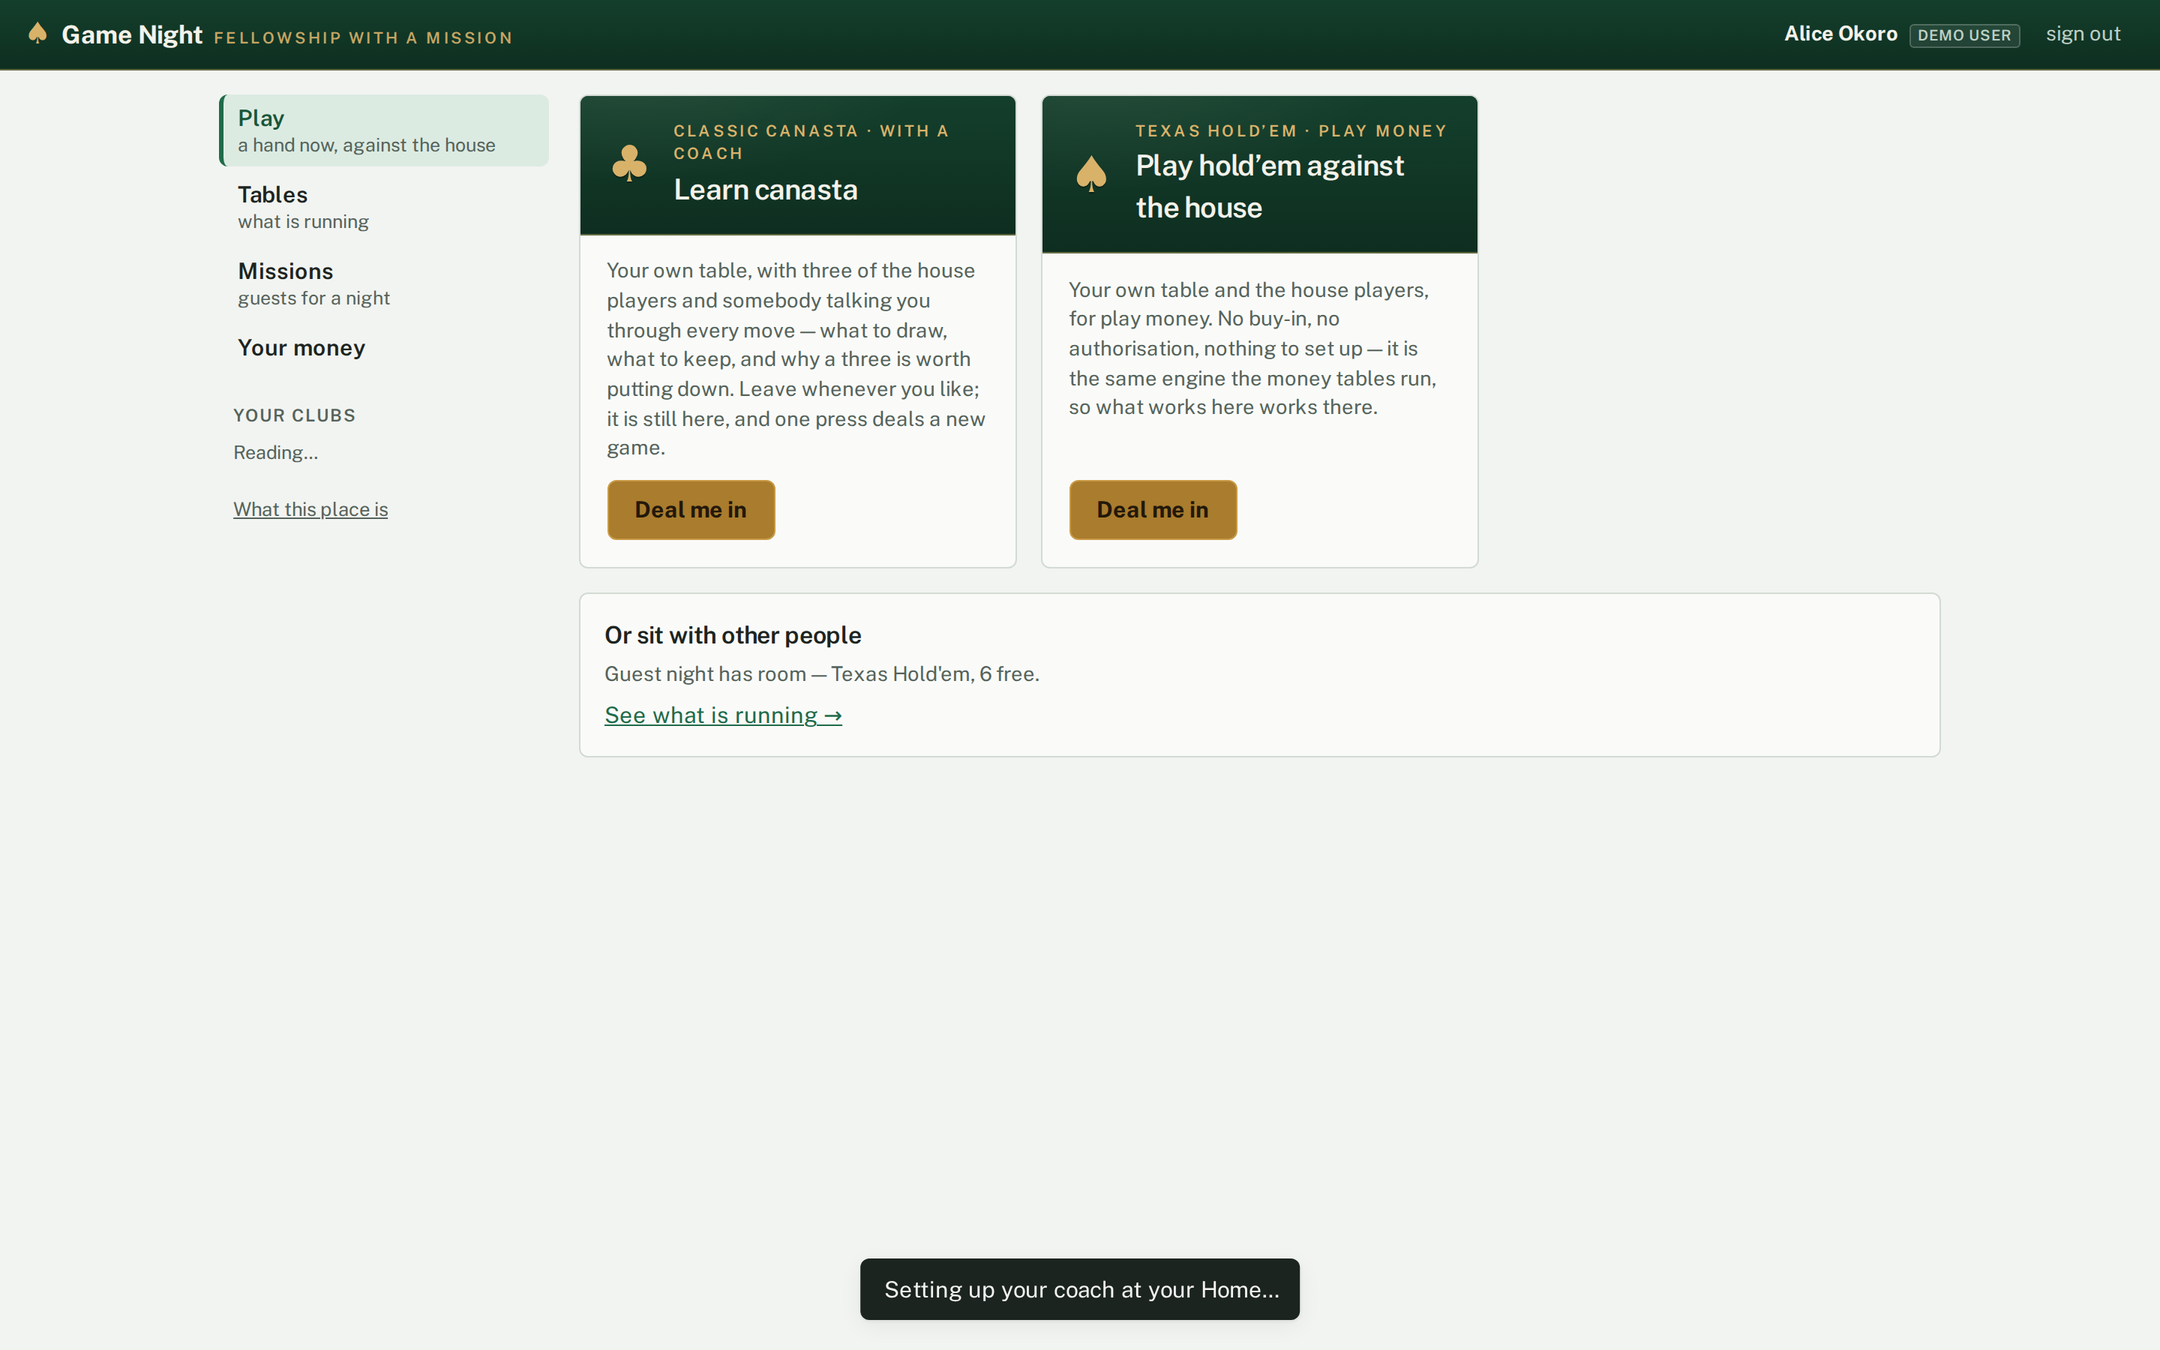
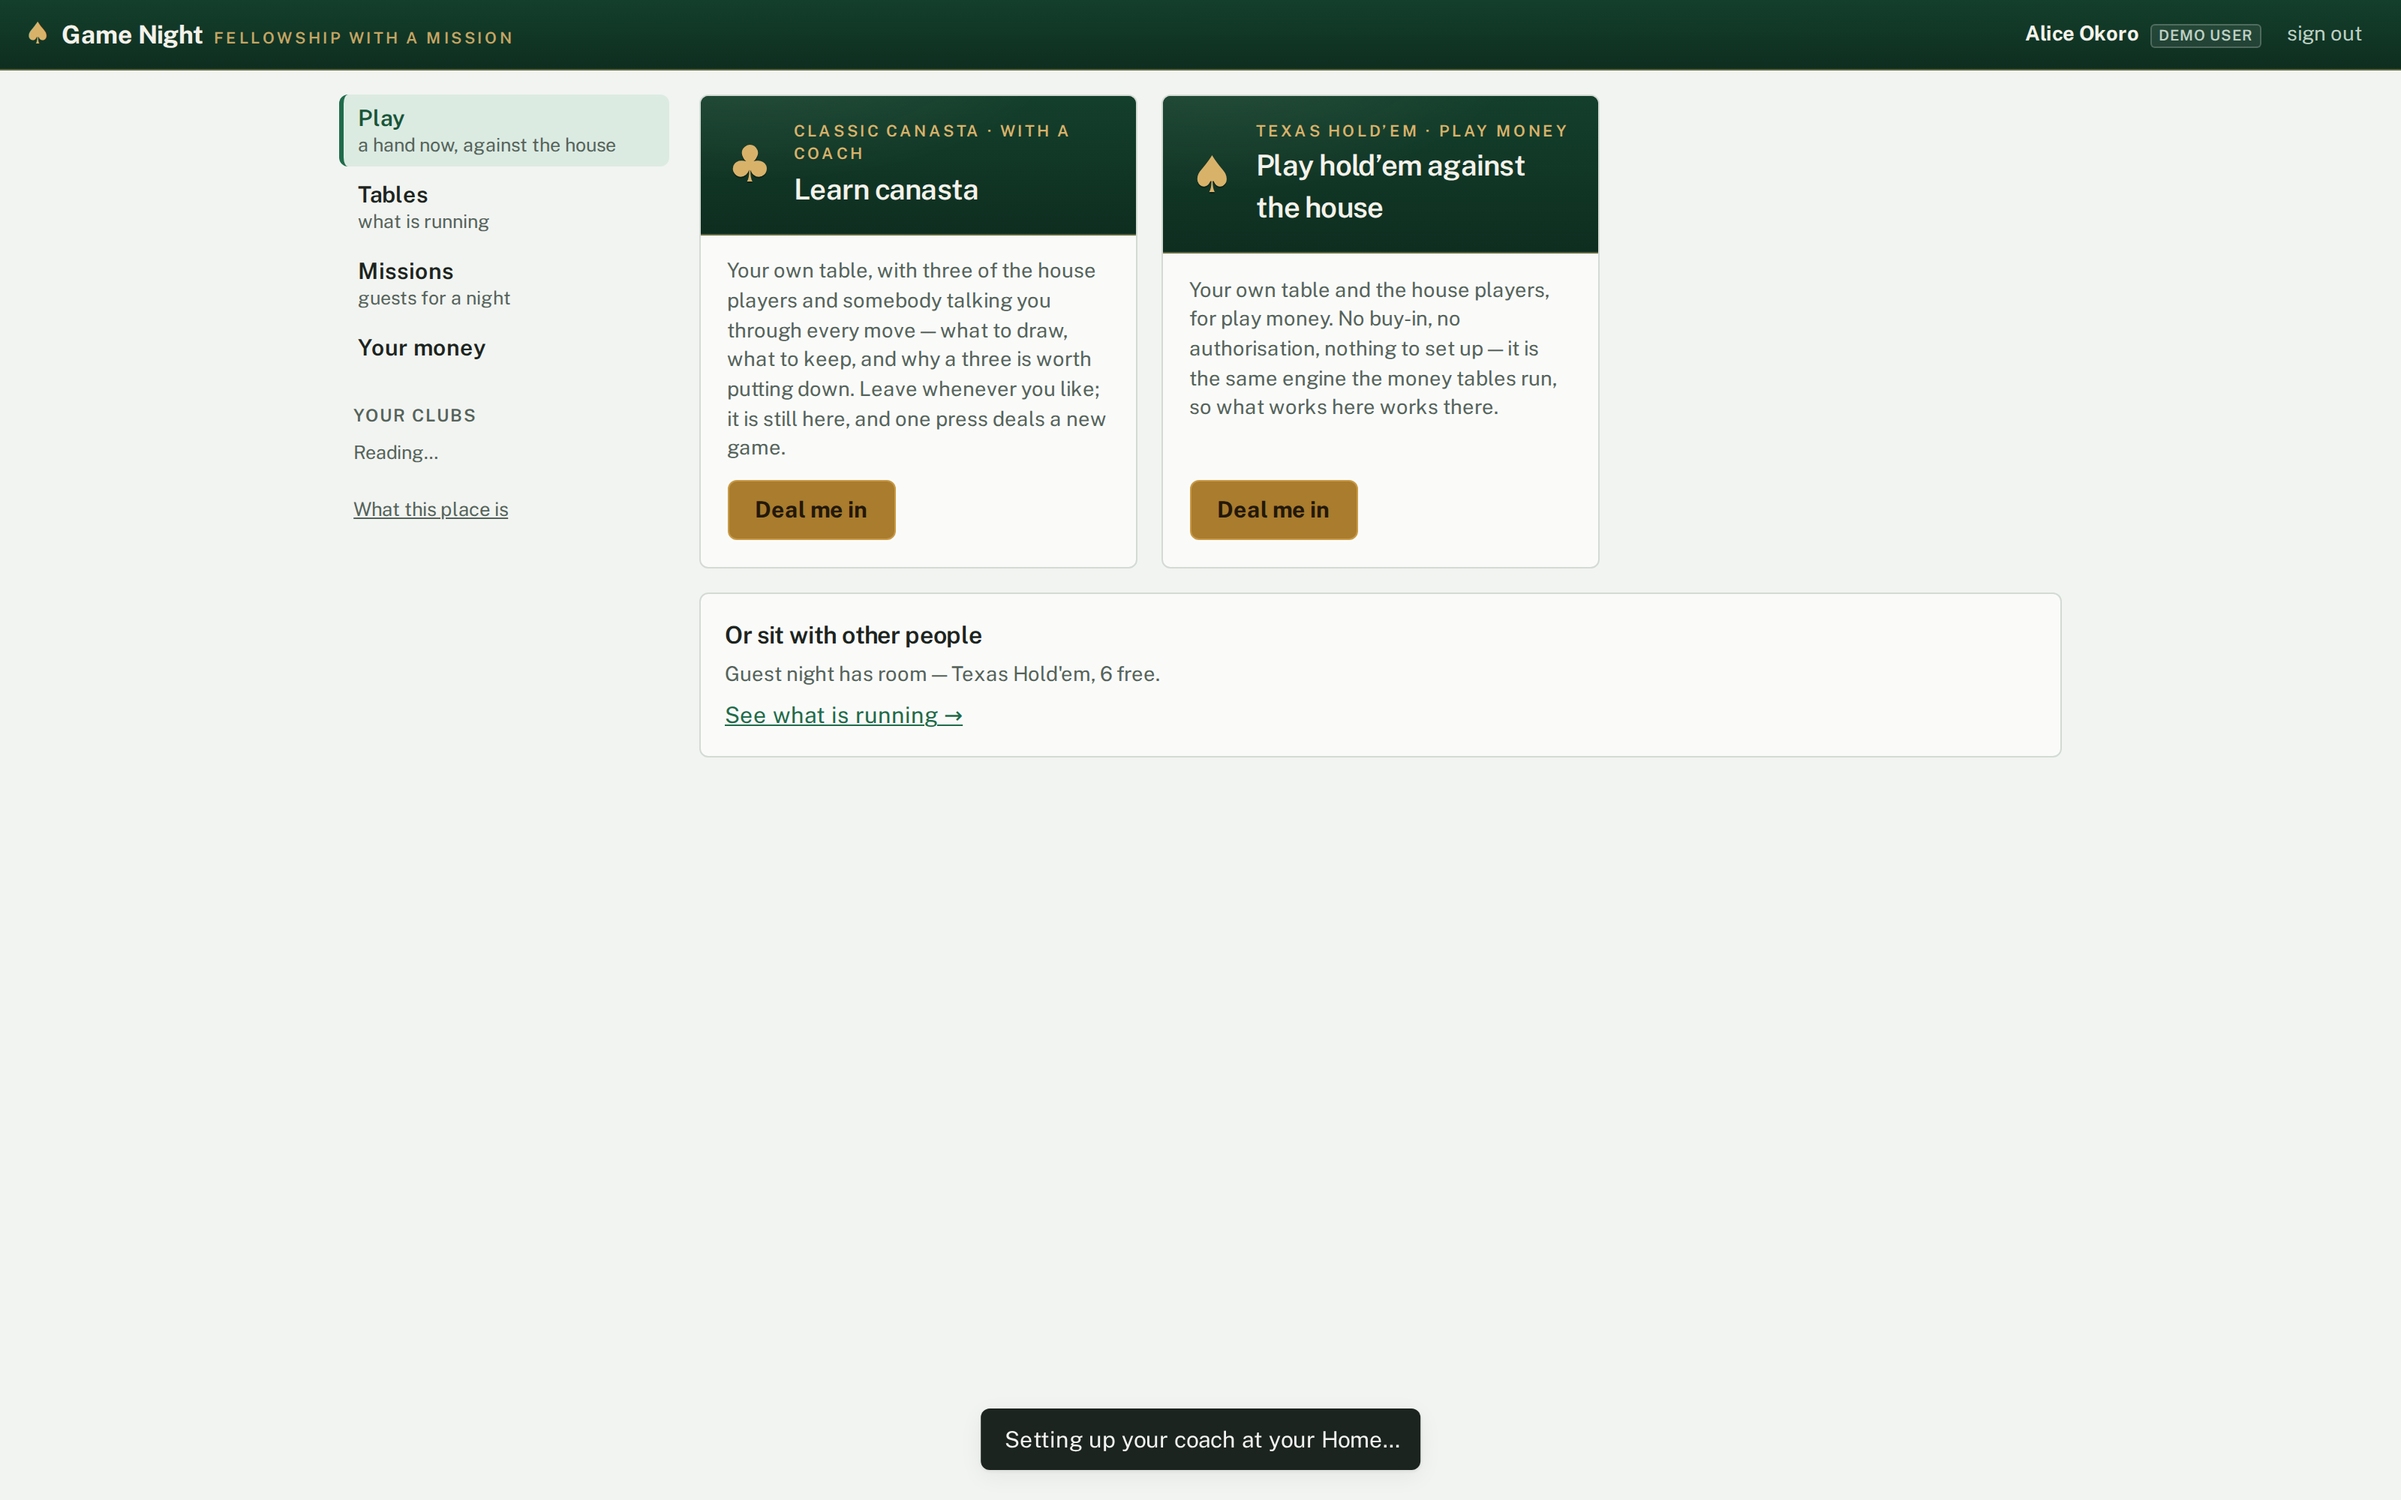
Show Alice at Texas hold’em: Play, Deal me in, and a live hand.
Screens on the Game Night page are now from the live table, signed in as
Alice Okoro — her turn, hole cards up, coach speaking through alice.me.

Changed region(s): [[0.0, 0.0, 1.0, 0.56], [0.375, 0.9333, 0.625, 0.9956], [0.0938, 0.3733, 0.1875, 0.4044]]

diff --git a/apps/web/src/app/examples/game-night/page.tsx b/apps/web/src/app/examples/game-night/page.tsx
@@ -99,12 +99,13 @@ export default function GameNight() {
 
       <Section tone="cream" eyebrow="Screens" title="What a player sees.">
         <div className="grid gap-8 md:grid-cols-2">
-          <Shot src="/shots/gamenight-play.png" alt="Game Night — Play" caption="Play: sit at a table, practise, or open a club room." />
-          <Shot src="/shots/gamenight-tables.png" alt="Game Night — Tables" caption="Tables: what is running, who is seated, which game the table hosts." />
-          <Shot src="/shots/gamenight-money.png" alt="Game Night — Your money" caption="Your money: the treasury the Home chartered for you, its balance, the mandates you hold, and the receipts behind every chip." />
-          <Shot src="/shots/gamenight-table.png" alt="Game Night — a live table" caption="At the table: seats, the board, the chat, and the coach that speaks only when asked." />
+          <Shot src="/shots/gamenight-play.png" alt="Game Night — Play, signed in as Alice" caption="Play, as Alice. Two doors: learn canasta, or play hold’em against the house. One press deals you in." />
+          <Shot src="/shots/gamenight-holdem-deal.png" alt="Deal me in — Texas hold’em" caption="Deal me in. Texas hold’em, play money — no buy-in, no authorisation, the same engine the money tables run." />
+          <div className="md:col-span-2">
+            <Shot src="/shots/gamenight-holdem-hand.png" alt="Alice playing a Texas hold’em hand" caption="A hand in progress. Alice holds A♠ 8♥; it is her turn. The house players are seated. bob-coach.svc, via alice.me, says why a check is free — she still has to press the button." />
+          </div>
         </div>
-        <p className="mt-6 text-sm text-slate-500">Screenshots captured from the live site, signed in as one of the estate's demo people.</p>
+        <p className="mt-6 text-sm text-slate-500">Captured from gamenight.faithnet.io, signed in as Alice Okoro, the estate’s demo person.</p>
       </Section>
 
       <Section eyebrow="What this proves" title="A complete agentic application without a custom trust stack.">

diff --git a/apps/web/src/app/page.tsx b/apps/web/src/app/page.tsx
@@ -163,7 +163,7 @@ export default function Home() {
       {/* GAME NIGHT TEASER */}
       <Section tone="navy" eyebrow="A complete example" title="Game Night: a card room where people and AI agents sit at the same table." lede="A real third-party application on the substrate. Passkey sign-in, a treasury per player, a buy-in the player authorizes with caveats, AI players over A2A, clubs as workspace agents, a coach that runs under a study grant, and a receipt for every chip that moves. The card room owns one contract and holds no player's key.">
         <div className="grid items-start gap-8 md:grid-cols-2">
-          <Shot src="/shots/gamenight-play.png" alt="Game Night — the Play screen after signing in with a demo persona" caption="gamenight.faithnet.io — Play, after a passkey sign-in at the estate's Home." />
+          <Shot src="/shots/gamenight-play.png" alt="Game Night — Play, signed in as Alice" caption="gamenight.faithnet.io — Play, as Alice. Deal me in to hold’em or canasta." />
           <div>
             <div className="grid grid-cols-2 gap-3">
               {GAME_NIGHT.stats.map((s) => (
